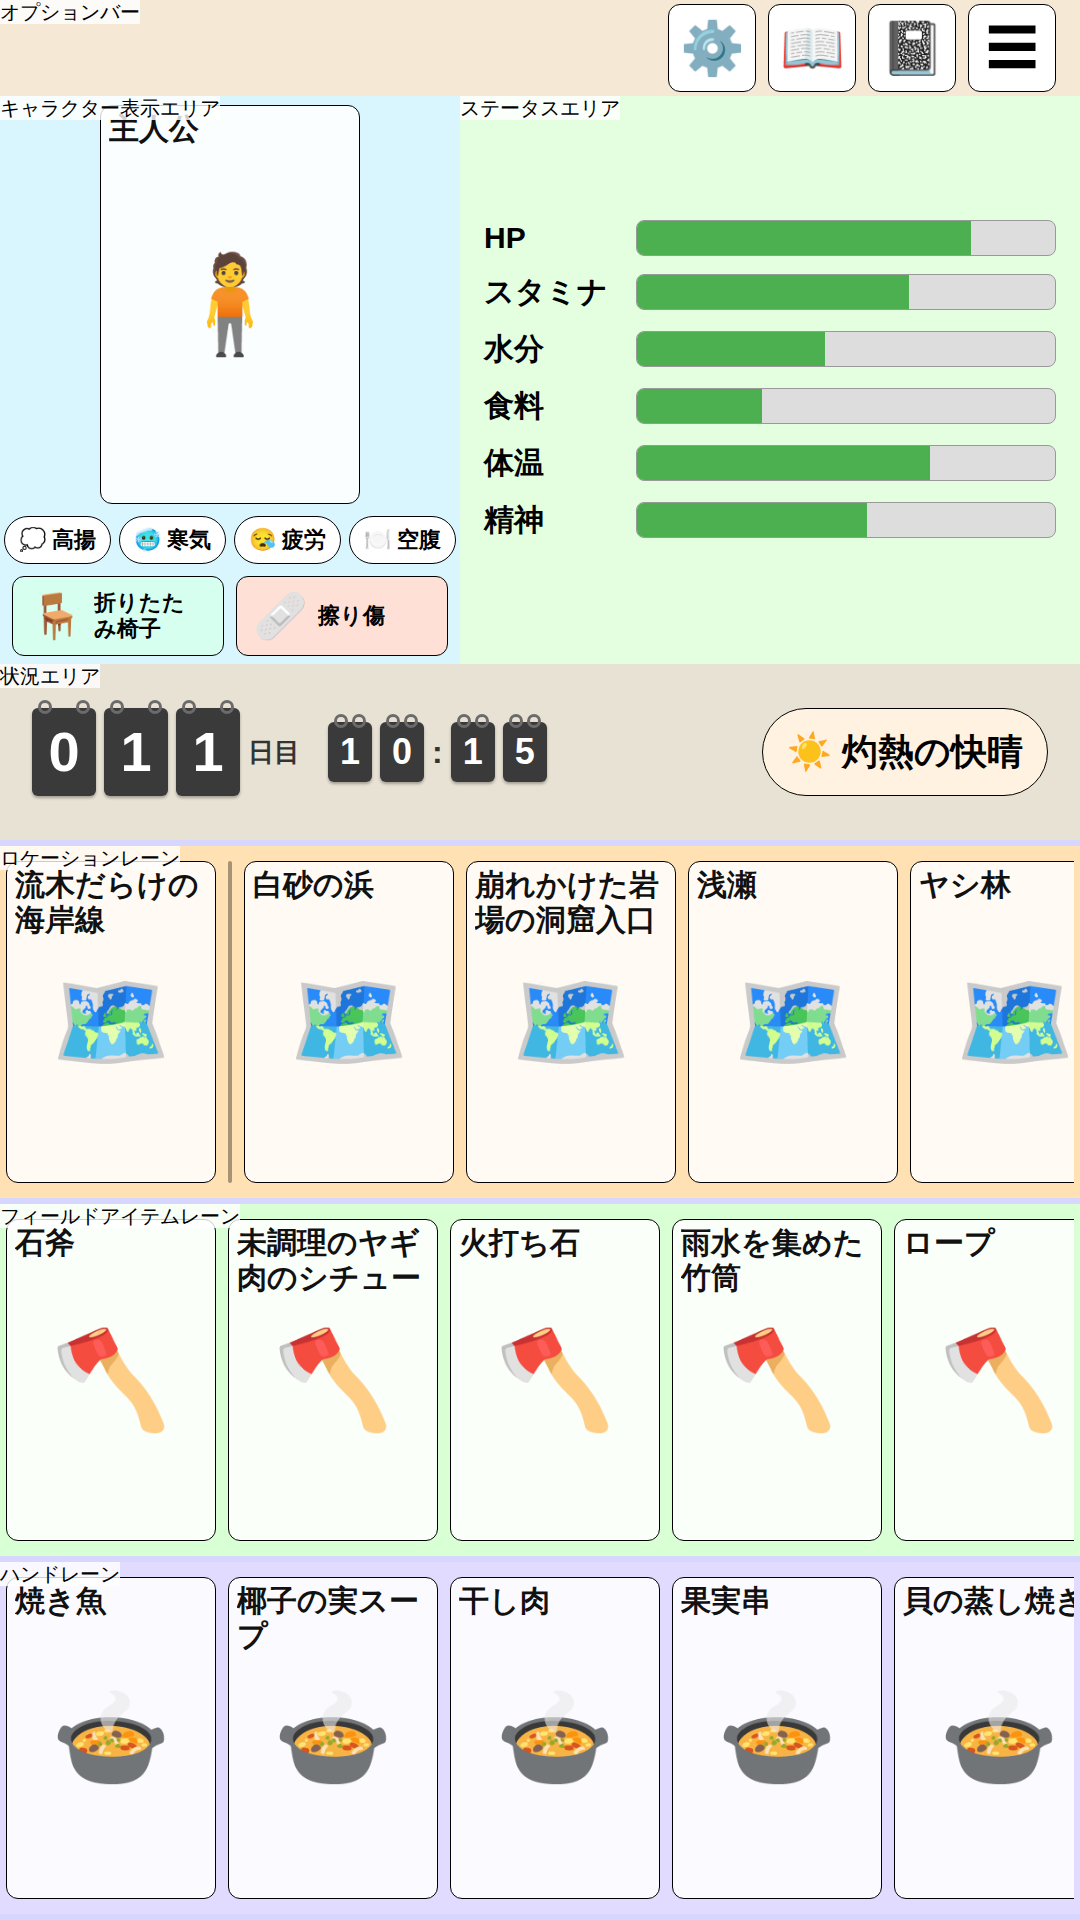
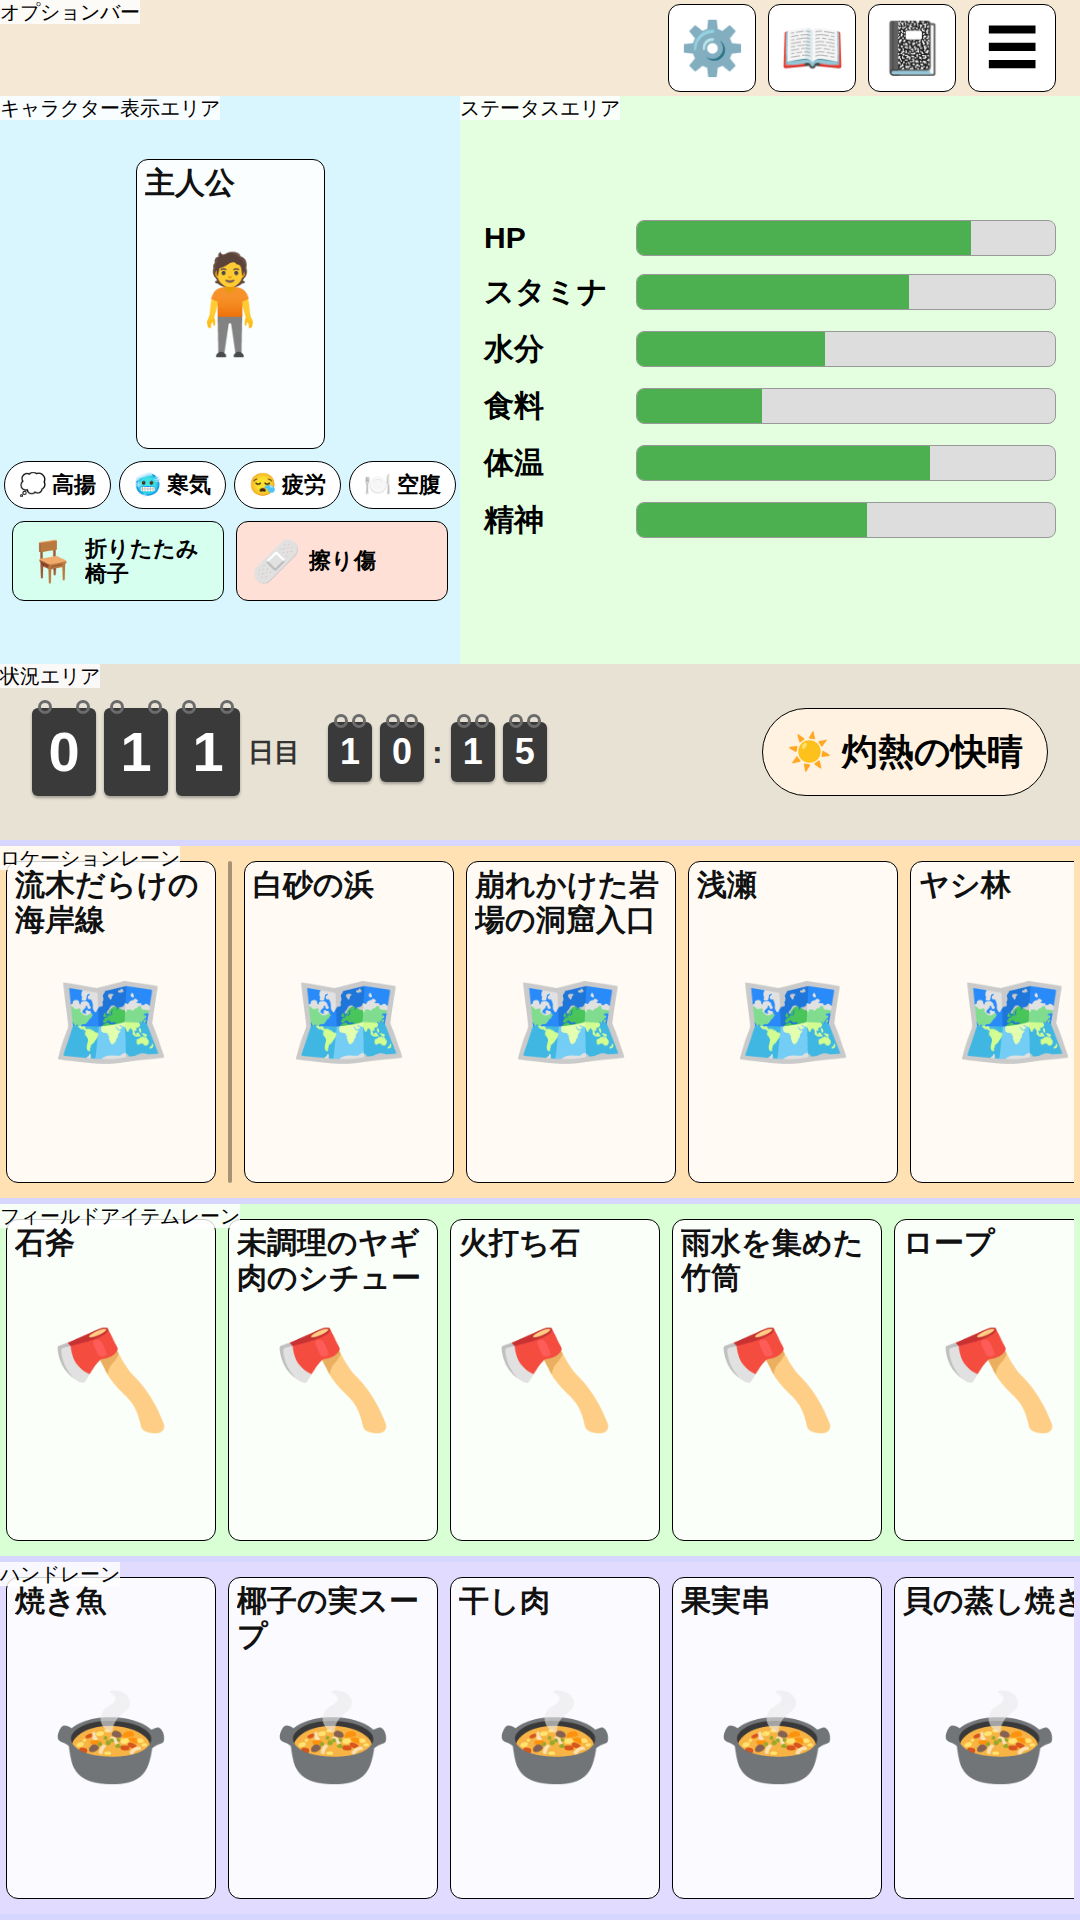
docs: キャラクターカードを縮小し、横型はフィールドカード7枚分に再設計
- ポートレイトカードをフィールドカードよりやや小さいサイズへ縮小
  （縦型189x290u）。横型はさらに小さく（140x215u）し、キャラクター
  表示エリアの横幅を切り詰める
- 横型は条件チップ・装備/怪我タイル・天候チップを1列に縦に並べる
  側列へ変更。ポートレイトの高さを活かして余白を解消した
- 側列を切り詰めて浮いた横幅をフィールドエリアに回し、横型のロケー
  ションレーン・フィールドアイテムレーンをカード7枚分の横幅に拡張。
  ハンドレーンは上限6枚のためカードを引き伸ばさず余白を残す
- 天候チップは横型では状況エリアから側列へ移動（状況エリアの横幅は
  日時のみで使い切るため）。フリップカードの桁サイズも横型用に縮小

Claude-Session: https://claude.ai/code/session_017mz69xFpjWLJMvgraCLnuJ

Changed region(s): [[0.0, 0.0312, 0.4278, 0.3438]]

diff --git a/Documents/UI/ScreenLayout_Mock.html b/Documents/UI/ScreenLayout_Mock.html
@@ -19,8 +19,8 @@
       --margin: calc(6 * var(--u));
       --bar-h: calc(96 * var(--u));
       --situation-h: calc(176 * var(--u));
-      --portrait-w: calc(260 * var(--u));
-      --portrait-h: calc(399 * var(--u));
+      --portrait-w: calc(189 * var(--u));
+      --portrait-h: calc(290 * var(--u));
       --tile-h: calc(80 * var(--u));
       --radius: calc(12 * var(--u));
     }
@@ -190,20 +190,21 @@
 
     /* 装備・怪我はカードではなくタップ可能なタイル。子ウィンドウを開くための
        タップ領域として --tile-h を最小高さに保つ */
+    .equip-injury-row .tile { flex: 1; }
+
     .tile {
-      flex: 1;
       display: flex;
       align-items: center;
-      gap: calc(10 * var(--u));
+      gap: calc(8 * var(--u));
       height: var(--tile-h);
-      padding: 0 calc(16 * var(--u));
+      padding: 0 calc(14 * var(--u));
       border: 1px solid #000;
       border-radius: calc(12 * var(--u));
       font: inherit;
       text-align: left;
     }
 
-    .tile-icon { font-size: calc(44 * var(--u)); line-height: 1; flex-shrink: 0; }
+    .tile-icon { font-size: calc(40 * var(--u)); line-height: 1; flex-shrink: 0; }
 
     .tile-name {
       font-size: calc(22 * var(--u));
@@ -371,6 +372,10 @@
       white-space: nowrap;
     }
 
+    /* 横型では状況エリアの横幅を日時に譲るため、天候はキャラクター表示エリアの
+       側列（side-info）へ移す。縦型は状況エリアに横幅の余裕があるため据え置き */
+    .weather-chip--side { display: none; }
+
     /* ---- オプションバー ---- */
     /* 縦型: 画面上部に固定（order:-1）。横型: 画面下部（order は横型メディアクエリで上書き） */
 
@@ -446,9 +451,39 @@
     /* ---- 横型 ---- */
 
     @media (orientation: landscape) {
+      /* ダッシュボード列を絞り、浮いた横幅をフィールドエリアへ渡してカード7枚分にする。
+         側列に余裕を持たせるため、横型専用の小さめポートレイトカードを使う */
+      :root {
+        --portrait-w: calc(140 * var(--u));
+        --portrait-h: calc(215 * var(--u));
+      }
+
       .screen { flex-direction: row; }
 
-      .situation-area { order: -1; }
+      .situation-area {
+        order: -1;
+        height: auto;
+        padding: calc(16 * var(--u)) calc(20 * var(--u));
+      }
+
+      .situation-area .weather-chip:not(.weather-chip--side) { display: none; }
+
+      .flip-calendar { gap: calc(16 * var(--u)); }
+
+      .calendar-row-day .flip-digit {
+        width: calc(44 * var(--u));
+        height: calc(60 * var(--u));
+        font-size: calc(38 * var(--u));
+      }
+
+      .calendar-row-time .flip-digit {
+        width: calc(30 * var(--u));
+        height: calc(40 * var(--u));
+        font-size: calc(24 * var(--u));
+      }
+
+      .calendar-day-unit { font-size: calc(20 * var(--u)); }
+      .calendar-colon { font-size: calc(22 * var(--u)); }
 
       .character-area {
         flex-direction: column;
@@ -458,18 +493,43 @@
 
       .character-display {
         width: 100%;
-        height: calc(488 * var(--u));
+        height: calc(460 * var(--u));
         flex-direction: row;
         justify-content: center;
+        align-items: center;
       }
 
       .side-info {
-        width: auto;
-        flex: 1;
-        align-items: flex-start;
+        width: calc(224 * var(--u));
+        flex: none;
+        align-items: stretch;
       }
 
-      .condition-row { justify-content: flex-start; }
+      .weather-chip--side {
+        display: flex;
+        width: 100%;
+        height: calc(48 * var(--u));
+        padding: 0 calc(14 * var(--u));
+        font-size: calc(22 * var(--u));
+        justify-content: flex-start;
+      }
+
+      .condition-row {
+        flex-direction: column;
+        flex-wrap: nowrap;
+        align-items: stretch;
+        gap: calc(6 * var(--u));
+      }
+
+      .condition-chip { justify-content: flex-start; }
+
+      .equip-injury-row {
+        flex-direction: column;
+        width: 100%;
+        padding: 0;
+      }
+
+      .equip-injury-row .tile { flex: none; width: 100%; }
 
       .status-area {
         flex: 1;
@@ -485,7 +545,7 @@
         padding: 0;
       }
 
-      .field-area { width: calc(1350 * var(--u)); height: auto; }
+      .field-area { width: calc(1542 * var(--u)); height: auto; }
     }
   </style>
 </head>
@@ -499,6 +559,7 @@
             <div class="card portrait-card"><span class="card-name">主人公</span></div>
           </div>
           <div class="side-info">
+            <div class="weather-chip weather-chip--side">☀ 灼熱の快晴</div>
             <div class="condition-row">
               <div class="condition-chip">💭 高揚</div>
               <div class="condition-chip">🥶 寒気</div>
@@ -591,6 +652,7 @@
           <div class="card"><span class="card-name">雨水を集めた竹筒</span></div>
           <div class="card"><span class="card-name">ロープ</span></div>
           <div class="card"><span class="card-name">割れたコンパス</span></div>
+          <div class="card"><span class="card-name">枯れ枝の束</span></div>
         </div>
       </div>
       <div class="lane hand-lane">
@@ -602,8 +664,6 @@
           <div class="card"><span class="card-name">果実串</span></div>
           <div class="card"><span class="card-name">貝の蒸し焼き</span></div>
           <div class="card"><span class="card-name">塩ゆで芋</span></div>
-          <div class="card"><span class="card-name">木の実の盛り合わせ</span></div>
-          <div class="card"><span class="card-name">海藻サラダ</span></div>
         </div>
       </div>
     </main>
